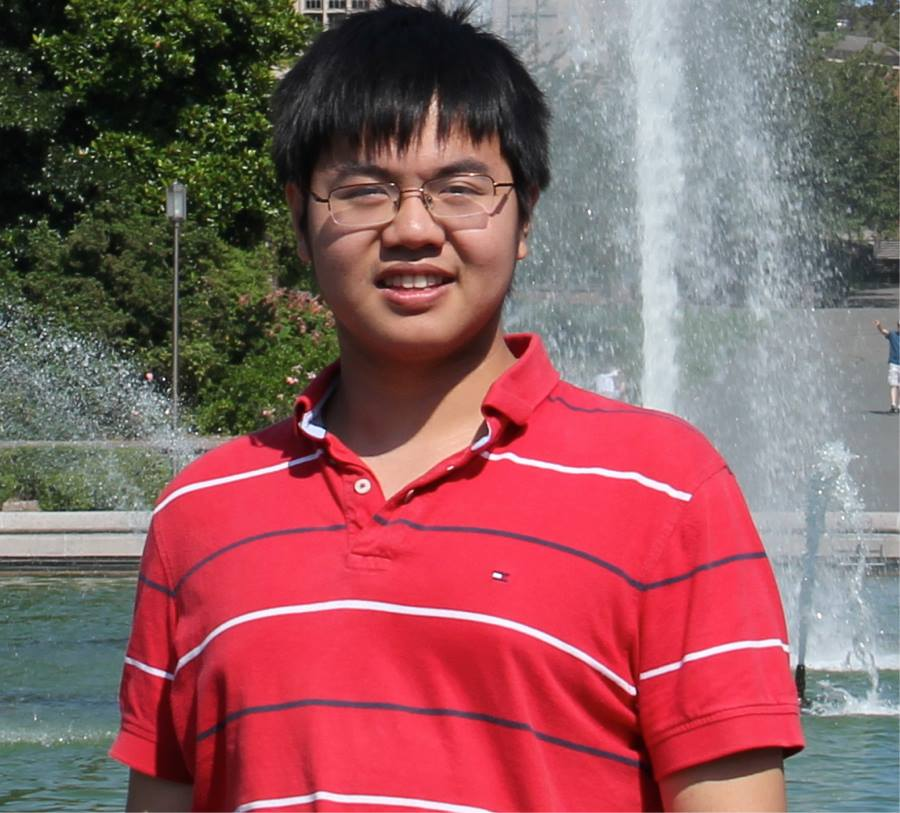
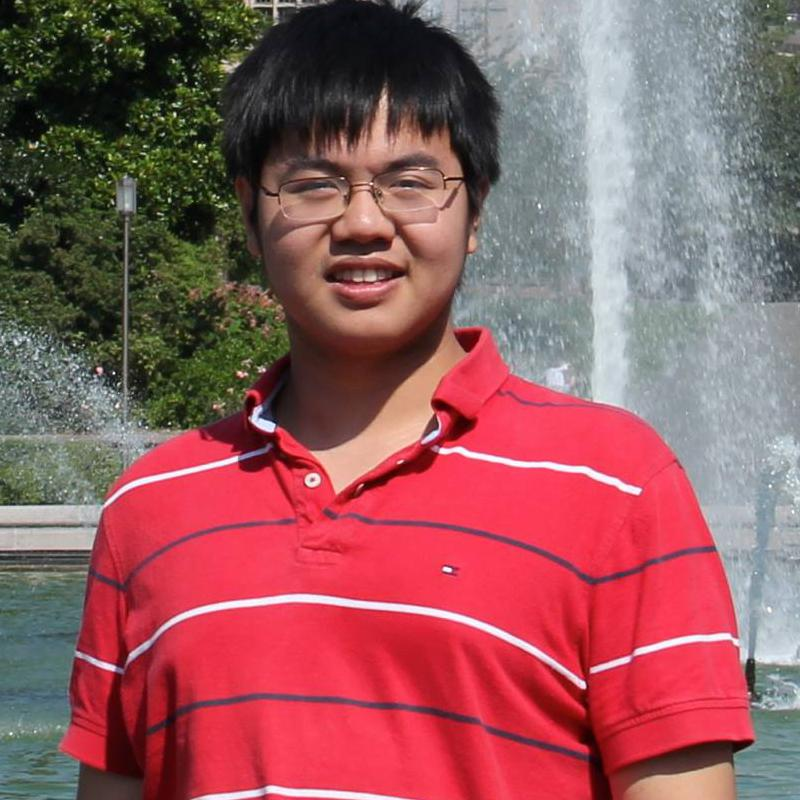
center image

diff --git a/index.html b/index.html
@@ -130,7 +130,7 @@ a:hover{color:#566c7f}
         <div id="main-content-container" class="container">
           <div class="row">
             <div class="col-sm-12 col-md-3 col-avatar">
-                <img src="images/yilun.jpg" class="avatar" />
+                <img src="images/yilun_center.jpg" class="avatar" />
             </div>
             <div class="col-sm-12 col-md-9 col-info">
                 <div id="main-info-container" class="container">
